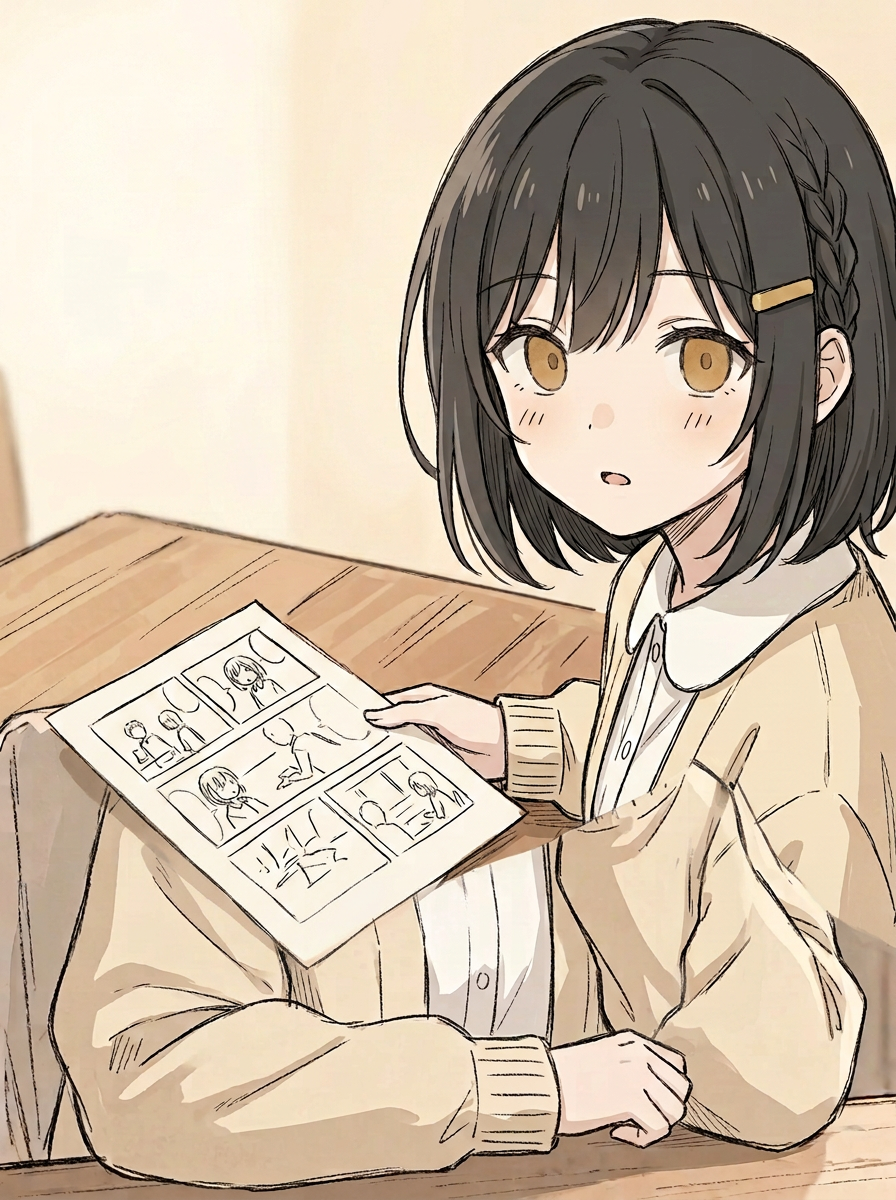
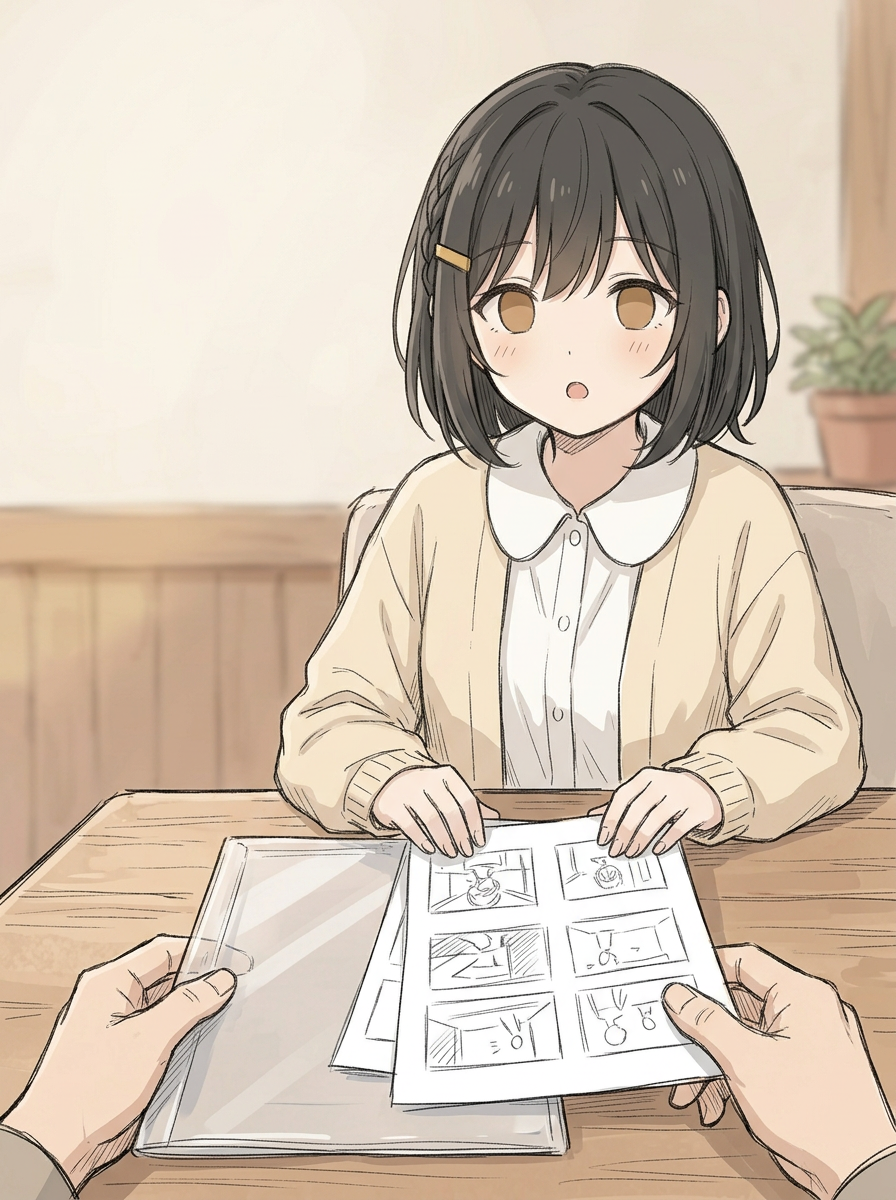
Add remastered P3 and P8-P9, document pending P6-P7 redraw

diff --git a/docs/v3_lv1_重制剧本与分镜.md b/docs/v3_lv1_重制剧本与分镜.md
@@ -7,8 +7,8 @@
 ### 眼睛高光锁死规则（2026-11-19 用户定案：A · 全程无高光）
 - **全书统一：哑光平涂瞳孔，零白色高光点、零 catchlight、鼻尖不加白色反光点**，与 `new_character.png`（小眠灰蓝哑光瞳）及 `art/v3-lv1/ref-yuzu.png`（柚子暖琥珀哑光瞳）100% 一致。
 - **生图 prompt 必须逐张写死**：`matte flat amber pupils, absolutely no white eye highlights, no catchlights, no nose shine dot`。只写“哑光琥珀眼”不够，模型会随机加白点（上个代理《婚书截胡篇》P1/P4 与本轮封面/P4/P5 均中招）。
-- **已修**：`raw-00-cover`、`raw-04`、`raw-05`、`ref-yuzu` 的鼻尖白点已用双线性插值抹平并重建双版本成页；`raw-02`（侧脸）、`raw-03`（待重绘）虹膜本身已是哑光，无需修。
-- **后续 `raw-03` 重绘 + `raw-06`～`raw-09` 生成时必须套用本规则**，生成后逐页 3× 放大目检眼睛与鼻尖。
+- **已修**：`raw-00-cover`、`raw-03`、`raw-04`、`raw-05`、`ref-yuzu` 的鼻尖亮点已处理并重建双版本成页；`raw-02` 侧脸虹膜为哑光。P6/P7 初稿因重影与发夹方向错误已撤下，不计作成稿。
+- **后续重绘 `raw-06`、`raw-07` 时必须逐张写入本规则**，生成后逐页 3× 放大检查眼睛、鼻尖与柚子左侧发夹；P8/P9 原画已出，继续按此规则目检。
 
 ---
 
@@ -47,7 +47,7 @@
   - 左上旁白①：`下午去咖啡店改分镜时，` / `我在窗边看见了她。`
   - 左上旁白②：`店里只剩她对面一个空位。` / `我站了一会儿，才敢走过去拼桌。`
 
-### P3：散落的分镜稿与认出笔触（`page-03.png`｜待重修左侧发夹一致性）
+### P3：散落的分镜稿与认出笔触（`page-03.png`｜原画已重绘，发夹在画面左侧）
 - **画面**：第一人称微俯视木桌。两页未装订的 A4 分镜打印稿滑落在桌面上，她双手轻扶纸页边缘抬起头，微讶张嘴看向男主。
 - **分框台词**：
   - 左上旁白：`坐下时，文件夹里的打印稿滑了出来。`
@@ -67,27 +67,27 @@
   - 右上气泡②（同列无尾）：`好像从来都没有` / `自己真正喜欢的东西。`
   - 左下旁白：`看着她本子里的画，我一时竟接不上话。`
 
-### P6：最狠也最温柔的一句（`page-06.png`｜下一轮生成）
+### P6：最狠也最温柔的一句（`page-06.png`｜待重绘：当前初稿二次编辑产生重影，未收入成稿）
 - **画面**：近景 POV。她坐在画面偏右侧微微前倾，双手十指干净自然交握在桌面上，眼神安静认真地看着镜头。左侧留出充裕干净暖墙放两只气泡，绝不压头发、不缩蚂蚁字。
 - **分框台词**：
   - 左上气泡①（有尾）：`在你的故事里，女生好像只有` / `「属于男主」和「被抢走」两种状态。`
   - 左中气泡②（同列无尾）：`可现实里的我们，会挑喜欢的伞，` / `下雨天也会自己去买甜品呀。`
   - 右下旁白：`她说得很轻，却像把我的公式整个抽空了。`
 
-### P7：干净利落的礼貌拒绝（`page-07.png`｜下一轮生成）
+### P7：干净利落的礼貌拒绝（`page-07.png`｜待重绘：初稿发夹位置未遵守角色设定，未收入成稿）
 - **画面**：傍晚暖金光 POV。左下前景男主的手拿着亮屏手机微微递出；对面她已背起帆布包准备离开，弯起眉眼露出温和坦荡的歉意微笑，一手轻抬礼貌婉拒，窗外柔和暖光里站着穿浅米风衣围巾、手拿两把伞微笑等她的年轻男生（自然肤色与温和侧脸，非黑影）。
 - **分框台词**：
   - 左上旁白：`我鬼使神差地递出手机，` / `想问还能不能再向她请教。`
   - 左中气泡①（有尾）：`抱歉呀，老师。` / `来接我的人已经到窗外啦。`
   - 左下气泡②（同列无尾）：`希望下一本漫画里，` / `你能画出真正开心看着你的女孩子。`
 
-### P8：画不下去的空白画布（`page-08.png`｜下一轮生成）
+### P8：画不下去的空白画布（`page-08.png`｜原画已生成，含空白数位板与翻扣稿纸）
 - **画面**：回到深夜房间第一人称俯视数位板。显示器上是刺眼而干净的纯白新建画布，桌角那两页旧 NTR 分镜稿已被翻扣过去，男主握着压感笔悬停在板面上迟迟没有落下。
 - **分框台词**：
   - 左上旁白①：`她从来不属于谁，自然也无从「被抢走」。`
   - 左上旁白②：`那部连载，后来停更了。` / `不是没时间，是真的再也画不下去。`
 
-### P9：四十年后的纯爱（`page-09.png`｜下一轮生成）
+### P9：四十年后的纯爱（`page-09.png`｜原画已生成，第一人称老年手部与孙女手指方向正确）
 - **画面**：冬日暖阳洒进书房窗台，**严格第一人称俯视镜头**——男主一双布满岁月皱纹却沉稳温暖的苍老双手握着数位笔，在数位屏上画着一格温柔的黑白纯爱分镜（雨天伞铺前，男孩与女孩并肩各自挑中喜欢的伞相视而笑）；桌角放着老花镜与热茶、窗台趴着熟睡的虎斑猫，画面右侧探出一只小女孩的小手轻轻指着屏幕上的画格。
 - **分框台词**：
   - 左上旁白①：`四十年后，我还在画漫画。`
